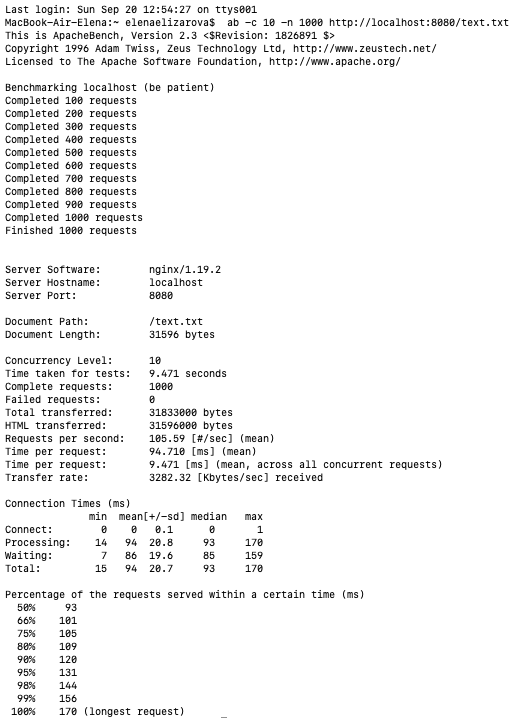
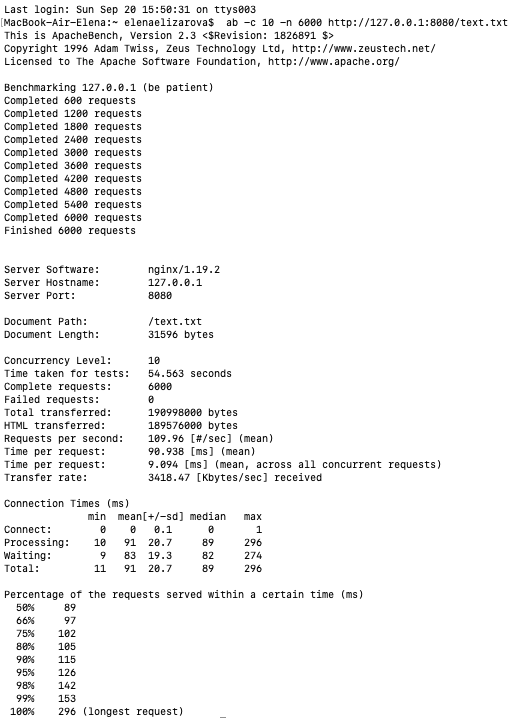
Fix benchmarks

diff --git a/README.md b/README.md
@@ -14,9 +14,11 @@ cargo run
 ```
 ab -c 10 -n 6000 http://127.0.0.1:8080/text.txt
 ```
-Результат для Nginx - 105 RPS
+Результат для Nginx - 109 RPS
 
 ![](benchmarks/Nginx.png)
 
+
 Результат для написанного сервера - 4360 RPS
+
 ![](benchmarks/Rust_serv.png)
